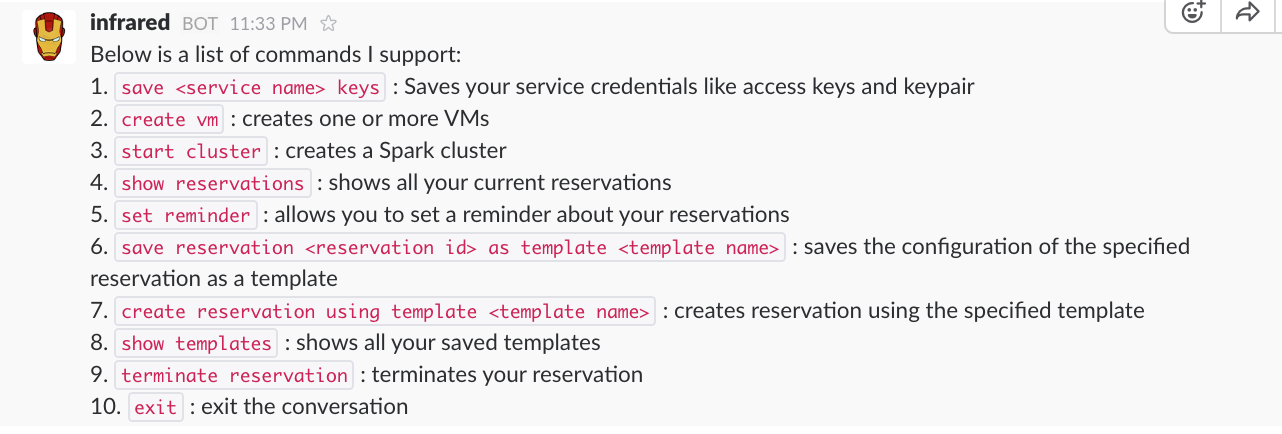
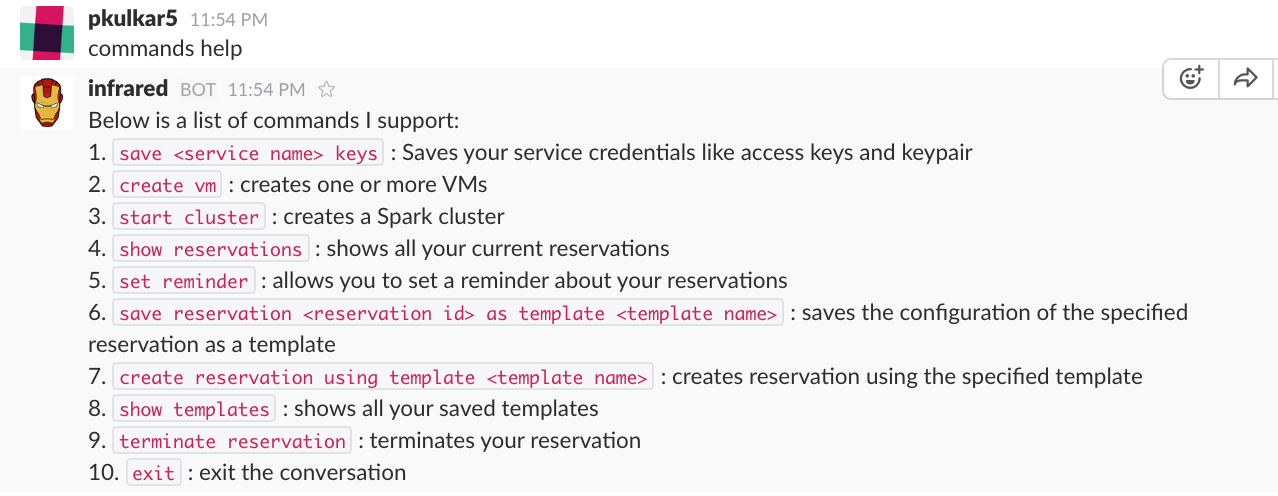
acceptance tests all with images

diff --git a/acceptance.md b/acceptance.md
@@ -1,23 +1,116 @@
 ## Acceptance Tests
 
+
 ### Pre-requisites
 
 You need to have keys set up on AWS/ Digital Ocean. You also need to generate keypair on AWS or ssh key on Digital Ocean. You will need the key pair name.
 
-#### Get acquainted with InfraRed, the bot
+
+### Get acquainted with InfraRed, the bot
 
 You can start with some basic tests like asking the bot what it is and asking for commands to which the bot responds to.
 
-	![](images/0_who_are_you.png)
+![](images/0_who_are_you.png)
 
-	![](images/0_commands_help.png)
+![](images/0_commands_help.png)
 
-#### Exit a conversation in the middle
+
+### Exit a conversation in the middle
 
 If you want to exit the conversation anytime, you can do so by saying `exit`
  or `forget about it`
 
- 	![](images/10_exit_conversation.png)
+![](images/10_exit_conversation.png)
 
- 
+
+### Save keys
+
+You can have 2 dialogs - one for saving AWS keys and the other for Digital Ocean Keys
+
+Saving AWS keys - happy path where you provide right credentials. Validation of keys is done before saving the keys
+
+![](images/1_save_keys_aws_happy.png)
+
+Saving Digital Ocean keys - happy path where you provide right credentials. Validation of keys is done before saving the keys
+
+![](images/1_save_keys_do_happy.png)
+
+Saving Keys - sad path where incorrect keys fail authentication
+
+![](images/1_save_keys_aws_sad.png)
+
+
+
+### Create VM
+
+To create a vm, you simply need to tell the bot - `create vm`. You will be asked a set of questions that are configuration values for your vm. The service is smart enough to pick the closest matching config with lowest price. Your vm will be created either on aws on digital ocean if you have both keys set up else it will be created on the only provider for which your keys are saved.
+
+This config results in creation of vm on AWS
+
+![](images/2_create_vm_aws_happy.png)
+
+This config results in creation of vm on Digital Ocean
+
+![](images/2_create_vm_do_happy.png)
+
+If you don't have keys set up, the bot replies with an appropriate message. Hence you need to have keys set up before you can create a vm/cluster
+
+![](images/2_create_vm_sad.png)
+
+
+### Show reservations
+
+To view all your active reservations, you simply need to tell the bot - `show reservations`.
+
+![](images/4_show_reservations.png)
+
+
+### Set reminder
+
+To set a reminder about your reservations, you simply need to tell the bot - `set reminder`. This will remind you about your reservations after specified time. You can then terminate after the reminder.
+
+![](images/5_set_reminder.png)
+
+
+### Save template
+
+This is a very handy way to spin up your vm/cluster. You can save your common configs as templates in the bot and tell the bot to spin up using your template name. You can take one of your existing reservations and tell the bot to save it as a template: `save reservation <reservation id> as template <template name>`
+
+![](images/6_save_template.png)
+
+
+### Create reservation using template
+
+You can quickly create a reservation using your template name as follows: `create reservation using template <template name>`
+
+![](images/7_create_reservation_using_template.png)
+
+
+### Show templates
+
+You can view your saved templates with their config as follows: `show my templates`
+
+![](images/8_show_templates.png)
+
+
+### Terminate reservation
+
+You can tear down a reservation using a reservation id or ask the bot to remind you to terminate: `tear down reservation <reservation id>` or `remind me about my reservations` or `set reminder`
+
+![](images/9_terminate_reservation.png)
+
+After terminating, if you do `show reservations`, you will see reduced number of reservations
+
+![](images/4_show_reservations_after_step_9.png)
+
+
+### Create cluster
+
+You can create a spark cluster by saying `start cluster` or `spin up a spark cluster`. Cluster creation takes about 8 mins and once ready, you will get a Zeppelin link where you can write and run Apache Spark code.
+
+![](images/3_create_cluster.png)
+
+
+
+
 
